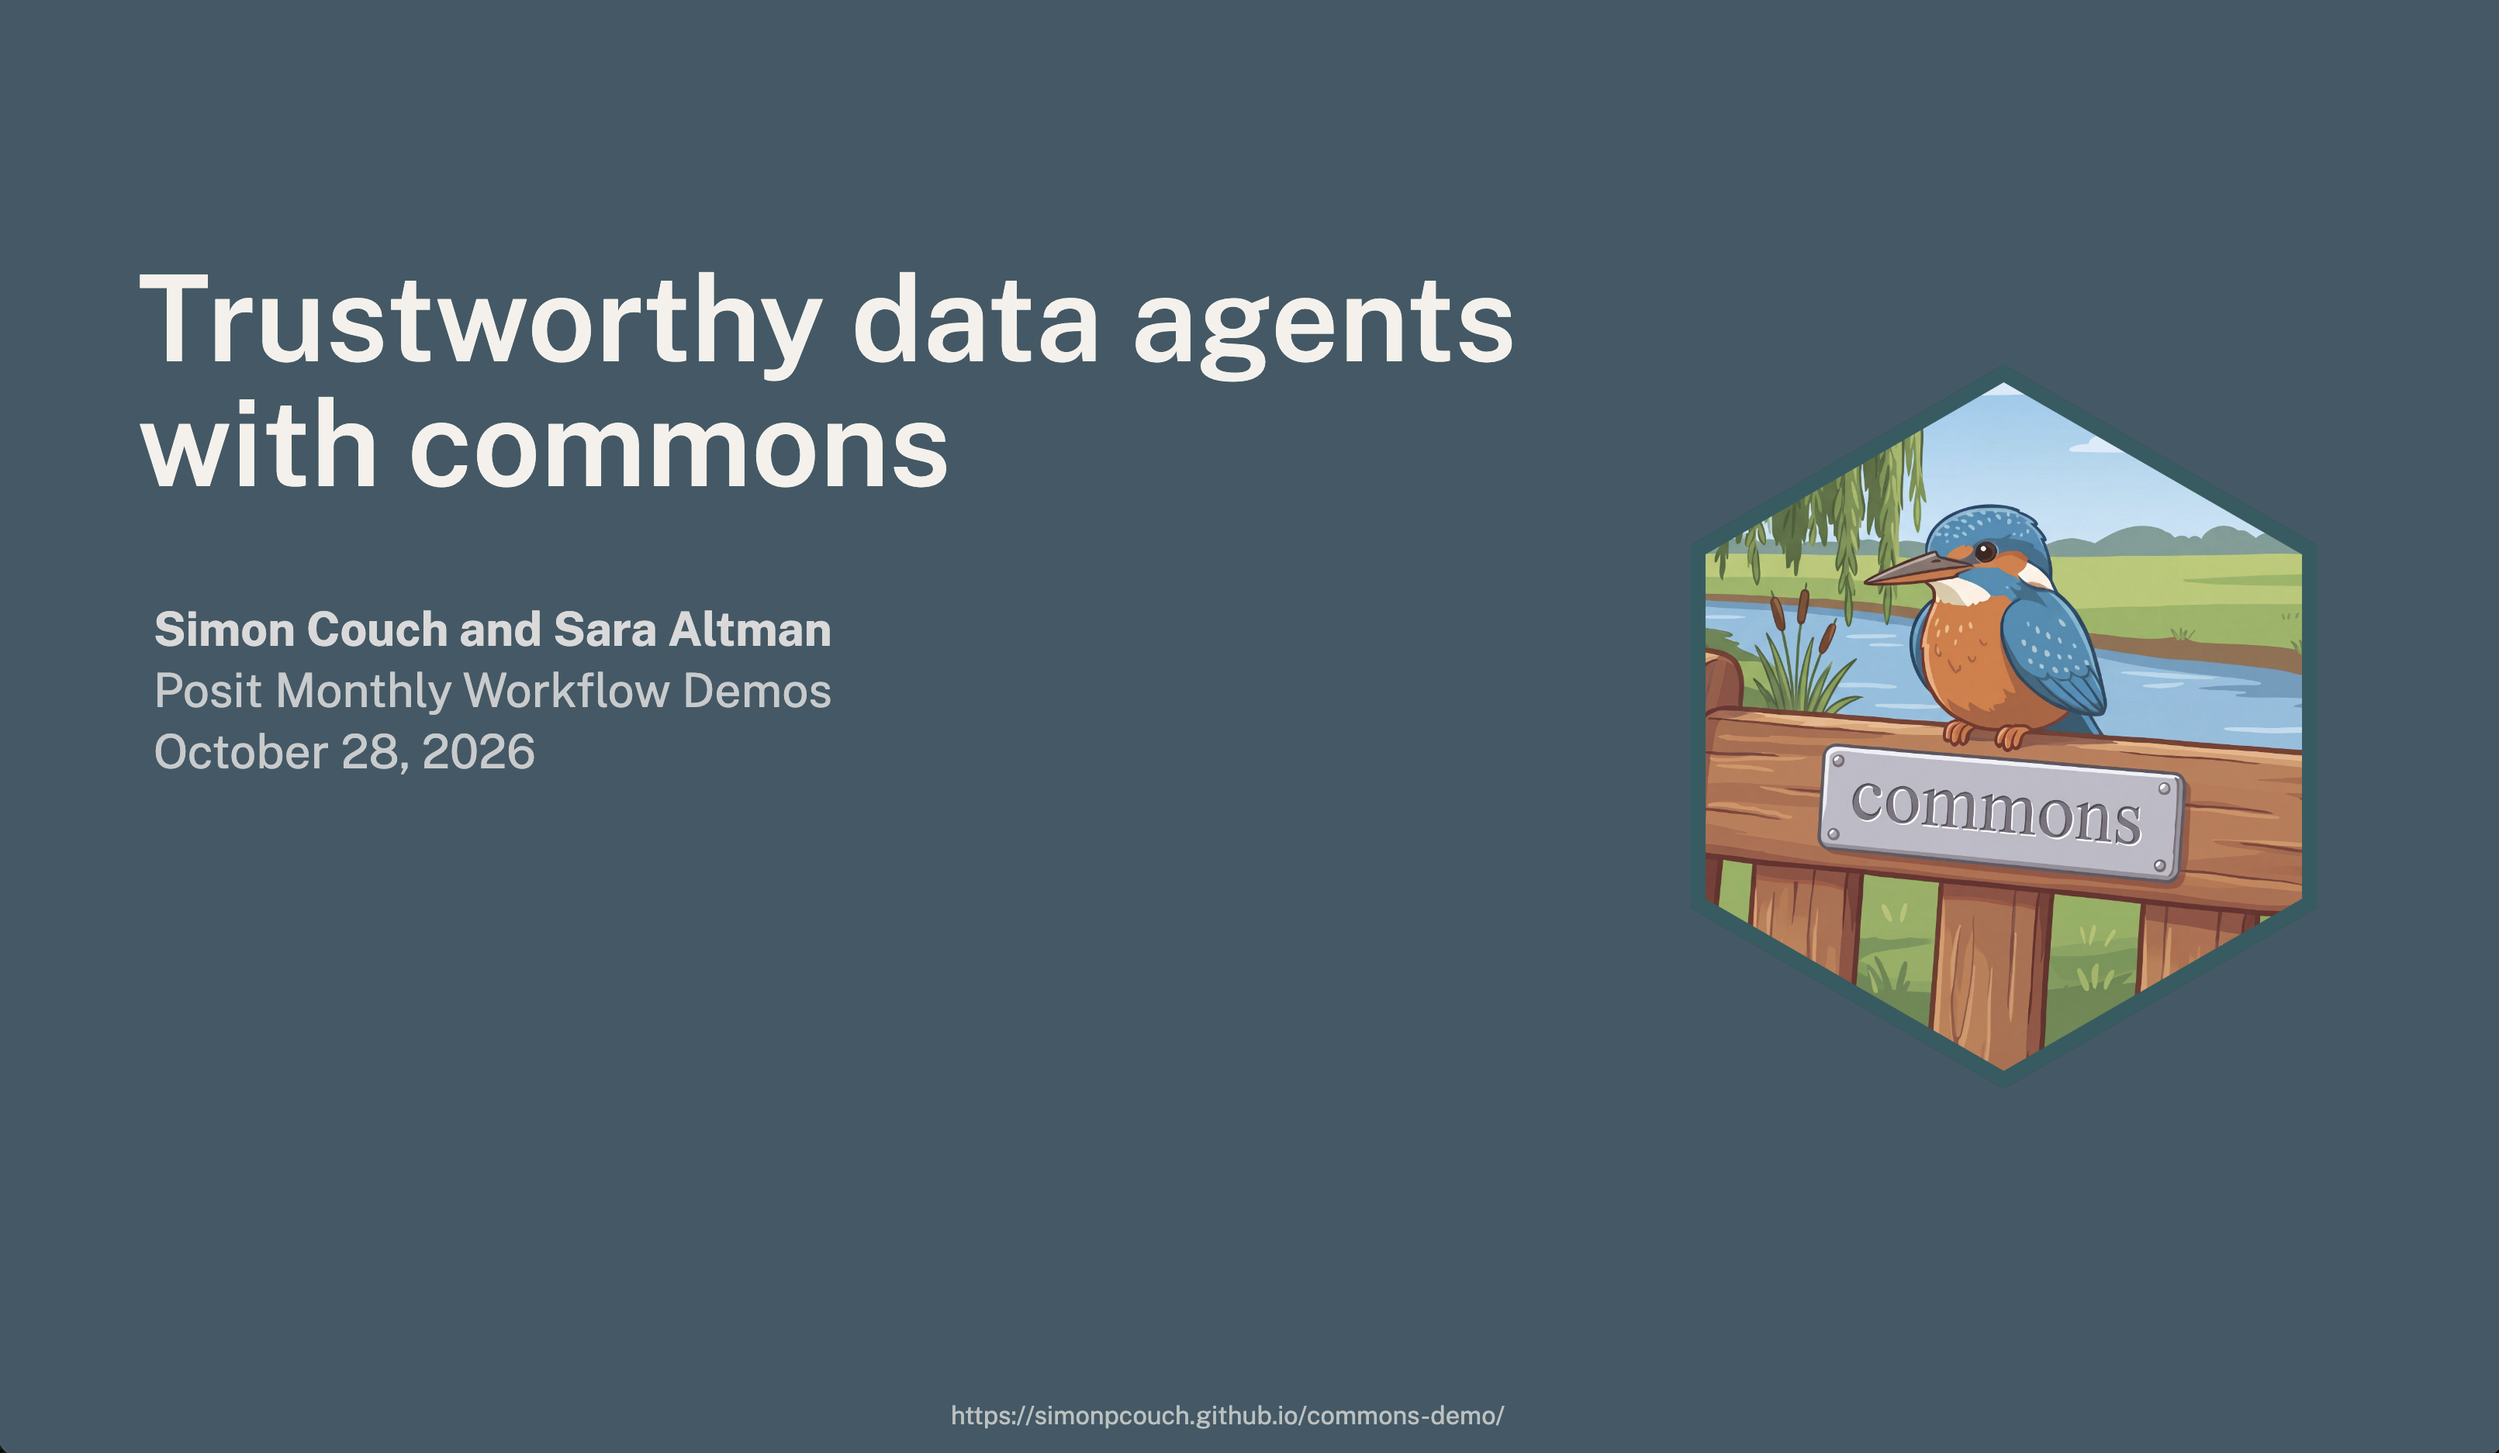
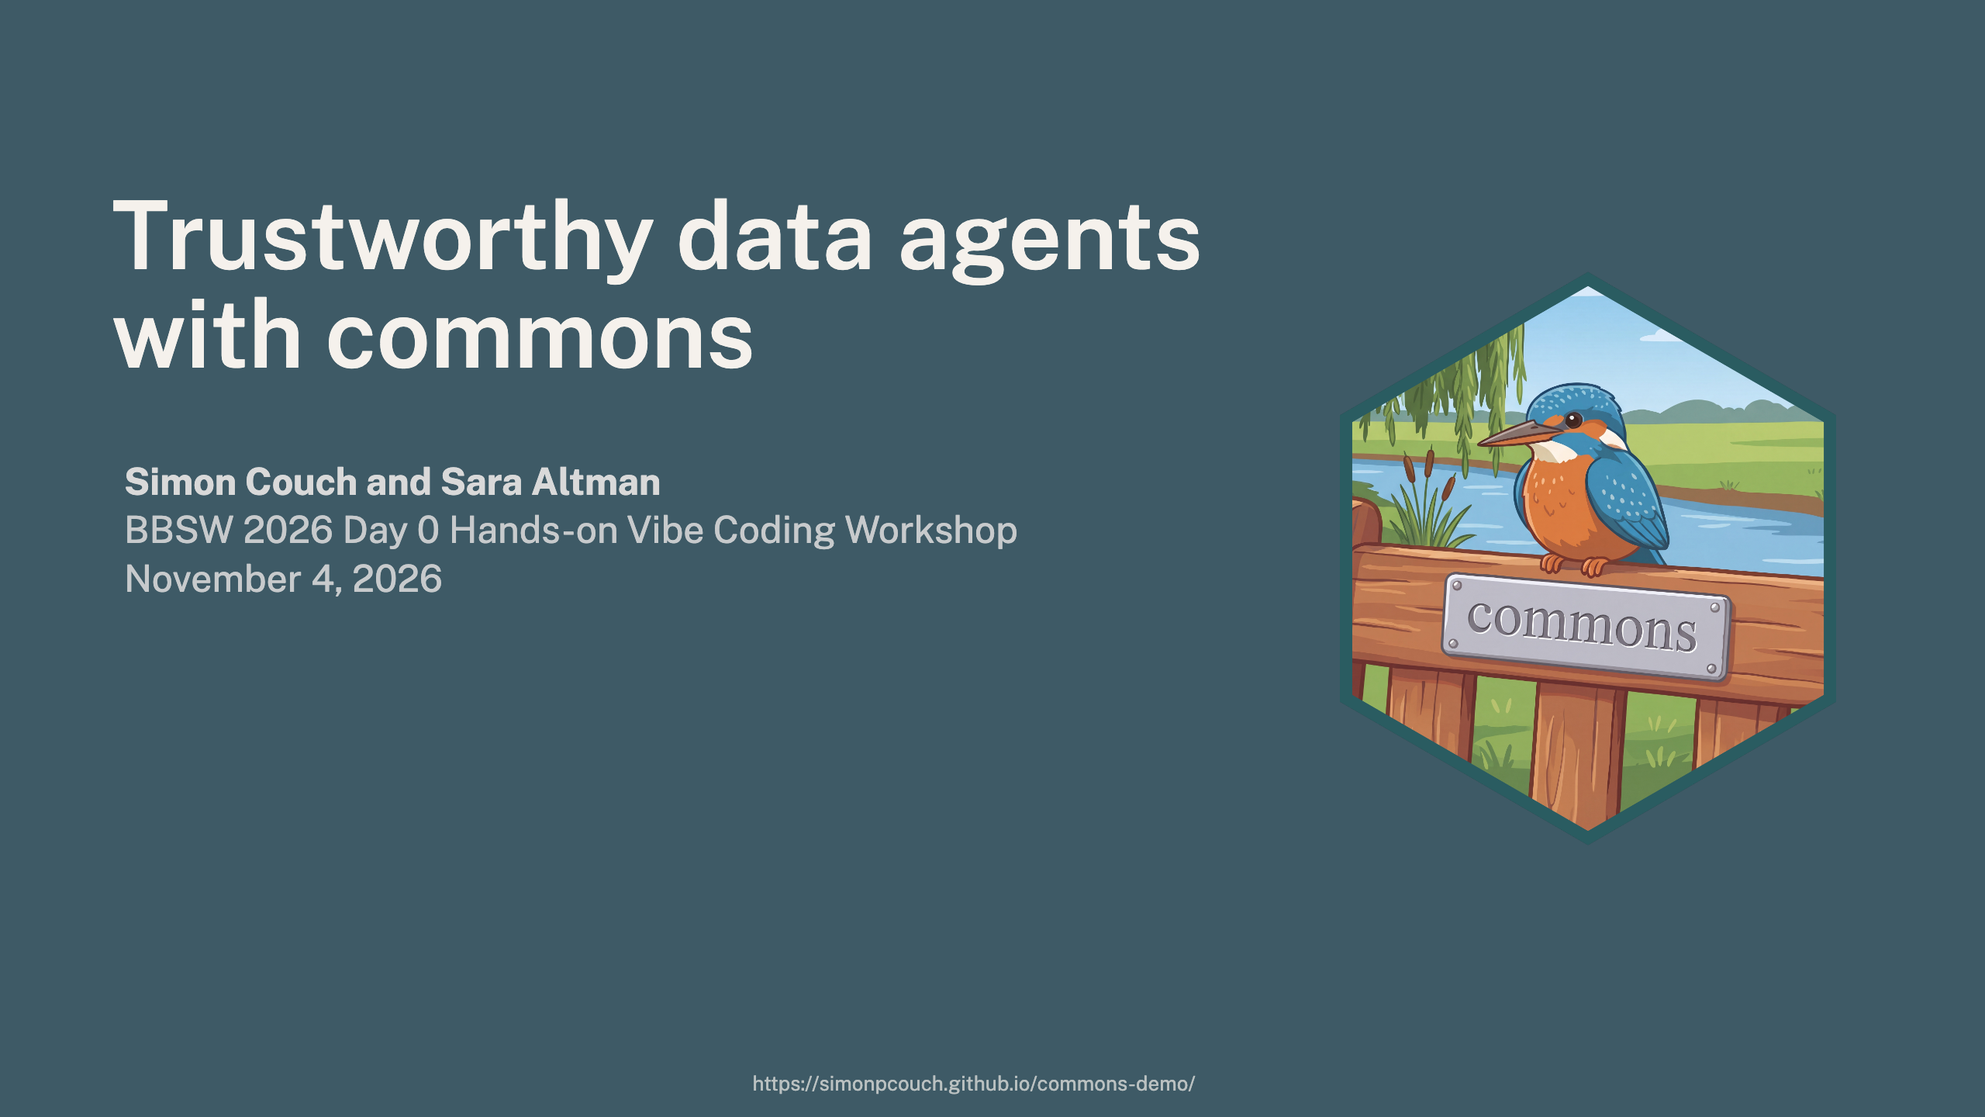
update title slide screenshot in readme

diff --git a/README.md b/README.md
@@ -1,7 +1,7 @@
 # Trustworthy data agents with commons
 
-Posit Monthly Workflow Demos, October 2026
+BBSW 2026 Day 0 Hands-on Vibe Coding Workshop, November 2026
 
-![Title slide: Trustworthy data agents with commons, Simon Couch and Sara Altman, October 20, 2026.](title-slide.png)
+![Title slide: Trustworthy data agents with commons, Simon Couch and Sara Altman, November 4, 2026.](title-slide.png)
 
 Read more on the [commons website](https://posit-dev.github.io/commons/).
